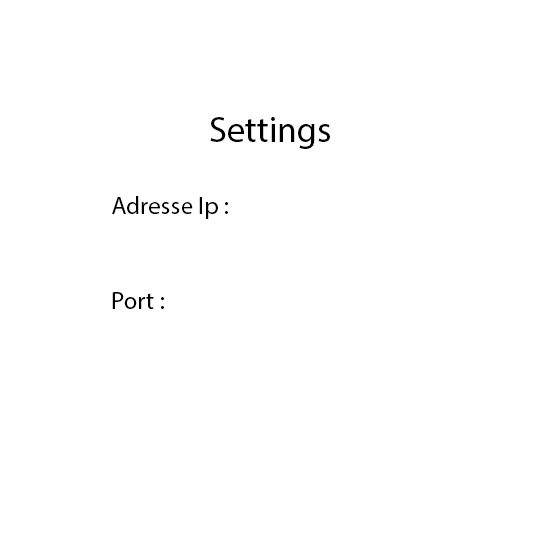
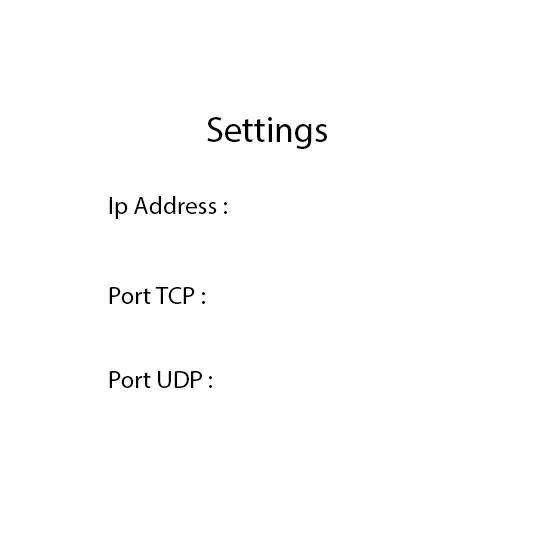
update client

diff --git a/Client/sources/MenuWindow.cpp b/Client/sources/MenuWindow.cpp
@@ -2,13 +2,13 @@
 #include	<algorithm>
 #include	<typeinfo>
 #include	"MenuWindow.hh"
-#include	"Background.hh"
 #include	"LineServer.hh"
 #include	"Image.hh"
 #include	"TextBlock.hh"
 #include	"AWidget.hh"
 #include	"CheckBox.hh"
 #include	"Text.hh"
+#include	"Texture.hh"
 #include	"TextArea.hh"
 #include	"Button.hh"
 #include	"Sound.hh"
@@ -21,7 +21,7 @@
 #include	"InfosUser.hh"
 
 MenuWindow::MenuWindow(sf::RenderWindow &window, network::Manager &network):
-  AScreen(window, network, START), _backgroundPtr(0), _objectFocus(0), _objectHover(0), _serverSelected(0)
+  AScreen(window, network, START), _objectFocus(0), _objectHover(0), _serverSelected(0)
 {
   this->_flag = 0;
 }
@@ -121,13 +121,14 @@ bool	MenuWindow::load()
       throw AScreen::Exception("MenuWindow can't load all textures");
     }
   this->_status = START;
+  this->_firstBackground.setTexture(TextureManager::getInstance().getTexture("Background1")->getTexture());
+  this->_secondBackground.setTexture(TextureManager::getInstance().getTexture("Background2")->getTexture());
   return (true);
 }
 
 MenuWindow::~MenuWindow()
 {
   clearWindow();
-  delete _backgroundPtr;
 }
 
 void	MenuWindow::drawMenu()
@@ -152,8 +153,6 @@ void	MenuWindow::drawMenu()
     tmp = new Text("FontMenu", "LoginText", this->_event, sf::Vector2f(525, 410), sf::Vector2f(520, 415), sf::Vector2f(760, 445), 10, true, InfosUser::getInstance().authenticate.login);
 
   tmp2 = new Text("FontMenu", "PasswordText", this->_event, sf::Vector2f(525, 515), sf::Vector2f(520, 415), sf::Vector2f(760, 445), 10, false, "Password");
-  if (this->_backgroundPtr == 0)
-    this->_backgroundPtr = new Background();
   this->_listImage.push_back(new Image("Title", sf::Vector2f(370, 60)));
   this->_listImage.push_back(new Image("Formu", sf::Vector2f(370, 175)));
   this->_listWidget.push_back(new TextArea(this->_event, "LoginArea", *tmp, sf::Vector2f(480, 380), sf::Vector2f(520, 415), sf::Vector2f(760, 445)));
@@ -181,31 +180,37 @@ void	MenuWindow::drawMenuWarning(const std::string &Msg)
 
 void	MenuWindow::drawSettings()
 {
+  Text *textIP;
+  Text *textTCP;
+  Text *textUDP;
+
   this->clearWindow();
   this->_status = CONTINUE;
-
-  Text *tmp;
-  Text *tmp2;
-
-  this->clearWindow();
   if (InfosUser::getInstance().authenticate.addressIp == "IPAddress")
-    tmp = new Text("FontLobby", "IPAddress", this->_event, sf::Vector2f(525, 410), sf::Vector2f(520, 415), sf::Vector2f(760, 445), 15, true, "Address Ip");
+    textIP = new Text("FontLobby", "IPAddress", this->_event, sf::Vector2f(525, 410), sf::Vector2f(519, 410), sf::Vector2f(766, 446), 15, true, "Address Ip");
   else
-    tmp = new Text("FontLobby", "IPAddress", this->_event, sf::Vector2f(525, 410), sf::Vector2f(520, 415), sf::Vector2f(760, 445), 15, true, InfosUser::getInstance().authenticate.addressIp);
+    textIP = new Text("FontLobby", "IPAddress", this->_event, sf::Vector2f(525, 410), sf::Vector2f(519, 410), sf::Vector2f(766, 446), 15, true, InfosUser::getInstance().authenticate.addressIp);
 
-  if (InfosUser::getInstance().authenticate.port == "Port")
-    tmp2 = new Text("FontLobby", "Port", this->_event, sf::Vector2f(525, 510), sf::Vector2f(520, 415), sf::Vector2f(760, 445), 5, true, "Port");
+  if (InfosUser::getInstance().authenticate.portTCP == "Port TCP")
+    textTCP = new Text("FontLobby", "PortTCP", this->_event, sf::Vector2f(525, 500), sf::Vector2f(518, 503), sf::Vector2f(764, 532), 5, true, "Port TCP");
   else
-    tmp2 = new Text("FontLobby", "Port", this->_event, sf::Vector2f(525, 510), sf::Vector2f(520, 415), sf::Vector2f(760, 445), 5, true, InfosUser::getInstance().authenticate.port);
+    textTCP = new Text("FontLobby", "PortTCP", this->_event, sf::Vector2f(525, 500), sf::Vector2f(518, 503), sf::Vector2f(764, 532), 5, true, InfosUser::getInstance().authenticate.portTCP);
+
+  if (InfosUser::getInstance().authenticate.portUDP == "Port UDP")
+    textUDP = new Text("FontLobby", "PortUDP", this->_event, sf::Vector2f(525, 580), sf::Vector2f(517, 580), sf::Vector2f(766, 614), 5, true, "Port UDP");
+  else
+    textUDP = new Text("FontLobby", "PortUDP", this->_event, sf::Vector2f(525, 580), sf::Vector2f(517, 580), sf::Vector2f(766, 614), 5, true, InfosUser::getInstance().authenticate.portUDP);
 
   this->_listImage.push_back(new Image("Title", sf::Vector2f(370, 60)));
   this->_listImage.push_back(new Image("FondSettings", sf::Vector2f(370, 175)));
-  this->_listWidget.push_back(new TextArea(this->_event, "IPArea", *tmp, sf::Vector2f(480, 380), sf::Vector2f(520, 415), sf::Vector2f(760, 445)));
-  this->_listWidget.push_back(new TextArea(this->_event, "PortArea", *tmp2, sf::Vector2f(480, 480), sf::Vector2f(520, 515), sf::Vector2f(765, 545)));
-  this->_listWidget.push_back(tmp);
-  this->_listWidget.push_back(tmp2);
-  this->_listWidget.push_back(new Button(this->_event, "Save", sf::Vector2f(500, 590), sf::Vector2f(506, 596), sf::Vector2f(616, 632), SET_CHANGE, true));
-  this->_listWidget.push_back(new Button(this->_event, "CancelMenu", sf::Vector2f(650, 590), sf::Vector2f(654, 596), sf::Vector2f(766, 632), BACK_SET, true));
+  this->_listWidget.push_back(new TextArea(this->_event, "IPArea", *textIP, sf::Vector2f(480, 375), sf::Vector2f(519, 410), sf::Vector2f(766, 446)));
+  this->_listWidget.push_back(new TextArea(this->_event, "PortTCPArea", *textTCP, sf::Vector2f(480, 465), sf::Vector2f(518, 503), sf::Vector2f(764, 532)));
+  this->_listWidget.push_back(new TextArea(this->_event, "PortUDPArea", *textUDP, sf::Vector2f(480, 545), sf::Vector2f(517, 580), sf::Vector2f(766, 614)));
+  this->_listWidget.push_back(textIP);
+  this->_listWidget.push_back(textTCP);
+  this->_listWidget.push_back(textUDP);
+  this->_listWidget.push_back(new Button(this->_event, "Save", sf::Vector2f(500, 630), sf::Vector2f(505, 638), sf::Vector2f(615, 672), SET_CHANGE, true));
+  this->_listWidget.push_back(new Button(this->_event, "CancelMenu", sf::Vector2f(650, 630), sf::Vector2f(655, 637), sf::Vector2f(767, 669), BACK_SET, true));
 }
 
 void	MenuWindow::drawLobbyWarning(const std::string &Msg)
@@ -375,11 +380,20 @@ void	MenuWindow::drawLobbyWait(int owner)
   this->_listWidget.push_back(new TextBlock( "ChatBlock", this->_event, sf::Vector2f(830, 210), sf::Vector2f(820, 200), sf::Vector2f(820, 200), 20));
 }
 
-
-
-void	MenuWindow::setDraw()
+void		MenuWindow::scroll()
 {
-  this->_backgroundPtr->scroll();
+  _firstPos = _firstBackground.getPosition();
+  _secondPos = _secondBackground.getPosition();
+  if (_firstPos.x == 0)
+    _secondPos.x = 1280;
+  if (_firstPos.x == -1280)
+    _firstPos.x = 1280;
+  if (_secondPos.x == -1280)
+    _secondPos.x = 1280;
+  _firstPos.x -= 5;
+  _secondPos.x -= 5;
+  _secondBackground.setPosition(_secondPos.x, 0);
+  _firstBackground.setPosition(_firstPos.x, 0);
 }
 
 void	MenuWindow::draw()
@@ -387,8 +401,9 @@ void	MenuWindow::draw()
   widget_list::iterator	it;
   image_list::iterator	itImg;
 
-  this->_window.draw(this->_backgroundPtr->getFirstBackground());
-  this->_window.draw(this->_backgroundPtr->getSecondBackground());
+  this->scroll();
+  this->_window.draw(_firstBackground);
+  this->_window.draw(_secondBackground);
   for (itImg = this->_listImage.begin(); itImg != this->_listImage.end(); itImg++)
     this->_window.draw((*itImg)->getImage());
   for (it = this->_listWidget.begin(); it != this->_listWidget.end(); it++)
@@ -452,6 +467,45 @@ int	MenuWindow::checkNbPlayer()
   return 0;
 }
 
+const sf::Vector2f	&MenuWindow::getFirstPos() const
+{
+  return (this->_firstPos);
+}
+
+const sf::Vector2f	&MenuWindow::getSecondPos() const
+{
+  return (this->_secondPos);
+}
+
+const sf::Sprite	&MenuWindow::getFirstBackground() const
+{
+  return (this->_firstBackground);
+}
+
+const sf::Sprite	&MenuWindow::getSecondBackground() const
+{
+  return (this->_secondBackground);
+}
+
+void		MenuWindow::setFirstPos(float x, float y)
+{
+  this->_firstBackground.setPosition(x, y);
+}
+
+void		MenuWindow::setFirstPos(sf::Vector2f vector)
+{
+  this->_firstPos = vector;
+}
+
+void		MenuWindow::setSecondPos(float x, float y)
+{
+  this->_secondBackground.setPosition(x, y);
+}
+
+void		MenuWindow::setSecondPos(sf::Vector2f vector)
+{
+  this->_secondPos = vector;
+}
 
 int	MenuWindow::checkAction()
 {
@@ -463,6 +517,7 @@ int	MenuWindow::checkAction()
       break;
     case GAME:
       // Lancer la partie
+      this->clearWindow();
       this->_status = BACK_LOBY;
       return (2);
     case LOGIN:
@@ -552,8 +607,15 @@ int	MenuWindow::checkAction()
 	  this->drawMenu();
 	  break;
 	}
-      else if (dynamic_cast<Text*>(Interface::getInstance().getWidget("Port"))->getTmp() == "" ||
-	       dynamic_cast<Text*>(Interface::getInstance().getWidget("Port"))->getTmp() == "Port")
+      else if (dynamic_cast<Text*>(Interface::getInstance().getWidget("PortTCP"))->getTmp() == "" ||
+	       dynamic_cast<Text*>(Interface::getInstance().getWidget("PortTCP"))->getTmp() == "Port TCP")
+	{
+	  this->_status = CONTINUE;
+	  this->drawMenu();
+	  break;
+	}
+      else if (dynamic_cast<Text*>(Interface::getInstance().getWidget("PortUDP"))->getTmp() == "" ||
+	       dynamic_cast<Text*>(Interface::getInstance().getWidget("PortUDP"))->getTmp() == "Port UDP")
 	{
 	  this->_status = CONTINUE;
 	  this->drawMenu();
@@ -562,9 +624,11 @@ int	MenuWindow::checkAction()
       else
 	{
 	  InfosUser::getInstance().authenticate.addressIp = dynamic_cast<Text*>(Interface::getInstance().getWidget("IPAddress"))->getTmp();
-	  InfosUser::getInstance().authenticate.port = dynamic_cast<Text*>(Interface::getInstance().getWidget("Port"))->getTmp();
+	  InfosUser::getInstance().authenticate.portTCP = dynamic_cast<Text*>(Interface::getInstance().getWidget("PortTCP"))->getTmp();
+	  InfosUser::getInstance().authenticate.portUDP = dynamic_cast<Text*>(Interface::getInstance().getWidget("PortUDP"))->getTmp();
 	  std::cout << "IP : [" << InfosUser::getInstance().authenticate.addressIp << "]" << std::endl;
-	  std::cout << "Port : [" << InfosUser::getInstance().authenticate.port << "]" << std::endl;
+	  std::cout << "Port TCP : [" << InfosUser::getInstance().authenticate.portTCP << "]" << std::endl;
+	  std::cout << "Port UDP : [" << InfosUser::getInstance().authenticate.portUDP << "]" << std::endl;
 	  this->_status = CONTINUE;
 	  this->drawMenu();
 	  break;
@@ -598,8 +662,6 @@ void	MenuWindow::clearWindow()
       it = _listWidget.erase(it);
       delete cur;
     }
-  // this->_listImage.clear();
-  // this->_listWidget.clear();
   _objectFocus = 0;
   _objectHover = 0;
 }
@@ -656,6 +718,7 @@ int	MenuWindow::catchEvent()
 	  this->_objectHover = returnMouseFocus((float)this->_event.mouseMove.x, (float)this->_event.mouseMove.y);
 	  if (this->_objectHover != 0)
 	    this->_objectHover->onHover();
+	  std::cout << this->_event.mouseMove.x << " " << this->_event.mouseMove.y << std::endl;
 	  break;
 	case sf::Event::MouseButtonReleased:
 	  if (this->_objectFocus != 0)
@@ -680,16 +743,10 @@ int	MenuWindow::run()
     {
       if (this->catchEvent() == 2)
 	return (AScreen::SCR_GAME);
-      this->setDraw();
       this->draw();
     }
   this->_music.stop();
   return (AScreen::SCR_EXIT); // ASCREEN::Status
-}
-
-Background		*MenuWindow::getBackgroundPtr()
-{
-  return (this->_backgroundPtr);
 }
 
 const MenuWindow::image_list	&MenuWindow::getListImage() const

diff --git a/Client/sources/Text.cpp b/Client/sources/Text.cpp
@@ -5,7 +5,7 @@
 // Login   <brigno@epitech.net>
 //
 // Started on  Thu Oct 24 11:44:54 2013 brigno
-// Last update Fri Nov 22 20:42:18 2013 brigno
+// Last update Sat Nov 23 15:04:51 2013 brigno
 //
 
 #include	"Text.hh"
@@ -29,7 +29,7 @@ Text::Text(const std::string &fontName, const std::string &name, const sf::Event
       this->_text = sf::Text(this->_sentence, FontManager::getInstance().getFont(fontName)->getFont(), 24);
       this->_text.setColor(sf::Color(0, 0, 0));
     }
-  else if (name == "IPAddress" || name == "Port")
+  else if (name == "IPAddress" || name == "PortTCP" || name == "PortUDP")
     {
       this->_text = sf::Text(this->_sentence, FontManager::getInstance().getFont(fontName)->getFont(), 24);
       this->_text.setColor(sf::Color(0, 0, 0));
@@ -75,7 +75,7 @@ Text::Text(const std::string &fontName, const std::string &name, const sf::Event
       this->_text = sf::Text(this->_sentence, FontManager::getInstance().getFont(fontName)->getFont(), 24);
       this->_text.setColor(sf::Color(0, 0, 0));
     }
-  else if (name == "IPAddress" || name == "Port")
+  else if (name == "IPAddress" || name == "PortTCP" || name == "PortUDP")
     {
       this->_text = sf::Text(this->_sentence, FontManager::getInstance().getFont(fontName)->getFont(), 24);
       this->_text.setColor(sf::Color(0, 0, 0));

diff --git a/Client/sources/InfosUser.cpp b/Client/sources/InfosUser.cpp
@@ -12,7 +12,8 @@ void	InfosUser::initAuthenticate()
   authenticate.login = "Login";
   authenticate.password = "Password";
   authenticate.addressIp = "Address Ip";
-  authenticate.port = "Port";
+  authenticate.portTCP = "Port TCP";
+  authenticate.portUDP = "Port UDP";
 }
 
 void	InfosUser::initCreate()

diff --git a/Client/sources/Button.cpp b/Client/sources/Button.cpp
@@ -5,7 +5,7 @@
 // Login   <brigno@epitech.net>
 //
 // Started on  Thu Oct 31 16:22:29 2013 brigno
-// Last update Fri Nov 22 05:05:33 2013 brigno
+// Last update Sat Nov 23 15:45:36 2013 brigno
 //
 
 #include	"Button.hh"

diff --git a/Client/game/sources/GameWindow.cpp b/Client/game/sources/GameWindow.cpp
@@ -16,9 +16,8 @@ bool					GameWindow::load(void)
   return true;
 }
 
-void					GameWindow::clearWindow(void)
+void					GameWindow::clearWindow()
 {
-
 }
 
 int						GameWindow::run(void)
